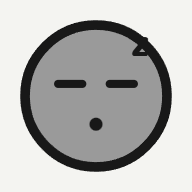
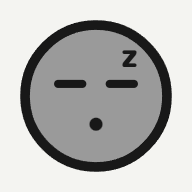
デザイン案 1c：ネムリの寝息「z」を輪郭の内側へ寄せる
外寄り・大きめ（r*0.42, -r*0.5・字面 r*0.45）だったため、太い輪郭線（r*0.12）に
右上が食い込んで潰れて見えていた。アプリアイコンに拡大すると三角形の欠片のように
見えて意味が読み取れないため、位置を r*0.3, -r*0.36 へ、字面を r*0.4 へ縮めて
本体の内側に収める。アイコンも生成し直した。

Changed region(s): [[0.625, 0.2188, 0.7812, 0.375], [0.75, 0.1875, 0.7812, 0.2188]]

diff --git a/src/characters.ts b/src/characters.ts
@@ -277,8 +277,10 @@ export function drawSnoot(
       dot(ctx, 0, r * 0.35, r * 0.08);
       const floatY = anim ? r * 0.12 * Math.sin(tt * 1.5) : 0;
       if (anim) ctx.globalAlpha = 0.55 + 0.45 * Math.sin(tt * 1.5);
-      ctx.font = `800 ${r * 0.45}px ${CANVAS_FONT}`;
-      ctx.fillText("z", r * 0.42, -r * 0.5 - floatY);
+      // z は本体の輪郭の内側に収める。モノクロ案は輪郭線が太い（r*0.12）ため、
+      // 外寄り・大きめだと右上が線に食い込んで潰れて見える（アプリアイコンで顕著）
+      ctx.font = `800 ${r * 0.4}px ${CANVAS_FONT}`;
+      ctx.fillText("z", r * 0.3, -r * 0.36 - floatY);
       ctx.globalAlpha = 1;
       break;
     }
